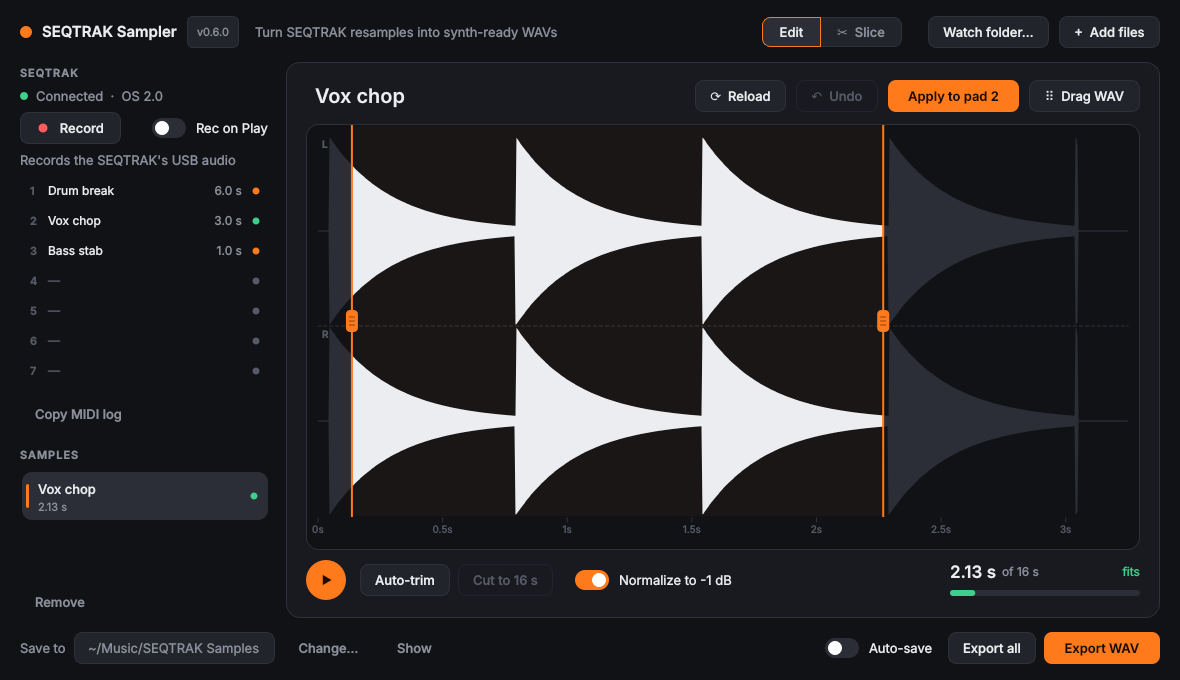
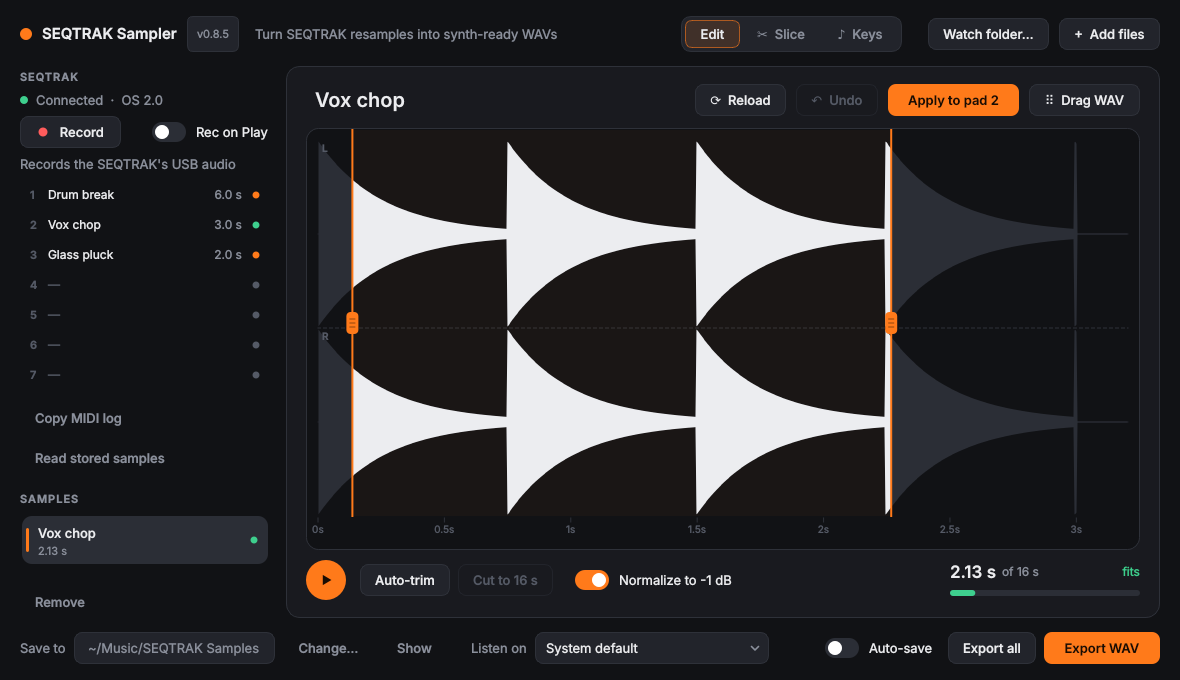
Update the website for Keys mode and v0.8
New Keys mode section (with a screenshot and a nav link), fresh
screenshots of the Edit and Slice screens showing the new mode switch
and the Listen on picker, v0.8 in the hero and download section, a
"Listen where you want" feature card in place of the command-line one
(the CLI is still under From source), and FAQ answers on hearing
previews, tuned pads, and Slice/Keys not using sample memory.

Claude-Session: https://claude.ai/code/session_01DojZnX5okCytkw6Y5bWfUg

diff --git a/docs/index.html b/docs/index.html
@@ -4,7 +4,7 @@
 <meta charset="utf-8">
 <meta name="viewport" content="width=device-width, initial-scale=1">
 <title>SEQTRAK Sampler</title>
-<meta name="description" content="A free companion app for the Yamaha SEQTRAK: record it over USB, trim sampler pads right on the device, slice one sample across pads, and export synth-ready stereo WAVs.">
+<meta name="description" content="A free companion app for the Yamaha SEQTRAK: record it over USB, trim sampler pads right on the device, slice one sample across pads or tune it across them as keys, and export synth-ready stereo WAVs.">
 <meta property="og:title" content="SEQTRAK Sampler">
 <meta property="og:description" content="Record, trim and slice SEQTRAK samples without a DAW round trip.">
 <meta property="og:image" content="screenshot.png">
@@ -116,6 +116,8 @@
 
   .showcase { display: grid; grid-template-columns: minmax(0, 5fr) minmax(0, 7fr); gap: 48px; align-items: center; }
   .showcase .shot { margin: 0; box-shadow: 0 20px 60px rgba(0, 0, 0, 0.5); }
+  .showcase.flip { grid-template-columns: minmax(0, 7fr) minmax(0, 5fr); }
+  .showcase.flip > .shot { order: -1; }
   .steps { list-style: none; margin: 0 0 20px; padding: 0; counter-reset: s; }
   .steps li { position: relative; padding: 6px 0 6px 36px; counter-increment: s; }
   .steps li::before { content: counter(s); position: absolute; left: 0; top: 8px; width: 24px; height: 24px; border-radius: 50%; display: grid; place-items: center; font-size: 12px; font-weight: 650; background: var(--accent); color: #1a0d03; }
@@ -127,7 +129,8 @@
   footer .wrap { display: flex; justify-content: space-between; gap: 24px; flex-wrap: wrap; }
 
   @media (max-width: 860px) {
-    .showcase { grid-template-columns: minmax(0, 1fr); gap: 32px; }
+    .showcase, .showcase.flip { grid-template-columns: minmax(0, 1fr); gap: 32px; }
+    .showcase.flip > .shot { order: 0; }
     .features { grid-template-columns: repeat(2, minmax(0, 1fr)); }
     .downloads { grid-template-columns: repeat(2, minmax(0, 1fr)); }
     .dl.source { grid-column: 1 / -1; }
@@ -136,7 +139,7 @@
     .wrap { padding: 0 16px; }
     nav .links a:not(.gh) { display: none; }
     .hero { padding-top: 56px; }
-    .compare, .features, .downloads, .showcase { grid-template-columns: minmax(0, 1fr); }
+    .compare, .features, .downloads, .showcase, .showcase.flip { grid-template-columns: minmax(0, 1fr); }
     section { padding: 64px 0; }
     .btn { width: 100%; justify-content: center; }
     .dl .btn { align-self: stretch; }
@@ -151,6 +154,7 @@
     <div class="links">
       <a href="#how">How it works</a>
       <a href="#slice">Slice mode</a>
+      <a href="#keys">Keys mode</a>
       <a href="#features">Features</a>
       <a href="#download">Download</a>
       <a href="#faq">FAQ</a>
@@ -161,9 +165,9 @@
 
 <header class="hero">
   <div class="wrap">
-    <span class="eyebrow">Free &amp; open source · macOS &amp; Windows · v0.6</span>
+    <span class="eyebrow">Free &amp; open source · macOS &amp; Windows · v0.8</span>
     <h1>Sampling on the SEQTRAK, <em>without the DAW</em></h1>
-    <p class="lede">Record the SEQTRAK over USB, trim its sampler pads right on the device, slice one sample across several pads in a click, and export clean stereo WAVs for its synth tracks.</p>
+    <p class="lede">Record the SEQTRAK over USB, trim its sampler pads right on the device, slice one sample across several pads or play it in a scale across all seven, and export clean stereo WAVs for its synth tracks.</p>
     <div class="cta">
       <a class="btn primary" href="https://github.com/rechandler/seqtrak_sampler/releases/latest/download/SEQTRAK-Sampler-macOS.zip">
         <svg viewBox="0 0 24 24" aria-hidden="true"><path d="M16.37 12.6c-.02-2.3 1.88-3.4 1.96-3.46-1.07-1.56-2.73-1.78-3.32-1.8-1.41-.14-2.76.83-3.47.83-.72 0-1.82-.81-2.99-.79-1.54.02-2.96.9-3.75 2.27-1.6 2.78-.41 6.89 1.15 9.14.76 1.1 1.67 2.34 2.86 2.3 1.15-.05 1.58-.74 2.97-.74 1.38 0 1.77.74 2.98.72 1.23-.02 2.01-1.12 2.76-2.23.87-1.28 1.23-2.52 1.25-2.58-.03-.01-2.38-.92-2.4-3.66zM14.1 5.86c.63-.77 1.06-1.83.94-2.89-.91.04-2.02.61-2.67 1.37-.58.67-1.1 1.76-.96 2.8 1.02.08 2.06-.52 2.69-1.28z"/></svg>
@@ -176,7 +180,7 @@
     </div>
     <p class="fineprint">Not affiliated with or endorsed by Yamaha Corporation.</p>
     <div class="shot">
-      <img src="screenshot.png" width="1180" height="680" alt="SEQTRAK Sampler connected to a SEQTRAK: the sampler pads in the sidebar, pad 2 open with trim handles, and Reload, Undo and Apply to pad 2 buttons">
+      <img src="screenshot.png" width="1180" height="680" alt="SEQTRAK Sampler connected to a SEQTRAK: the Edit, Slice and Keys switch, the sampler pads in the sidebar, pad 2 open with trim handles and Reload, Undo and Apply to pad 2 buttons, and a Listen on output picker in the footer">
     </div>
   </div>
 </header>
@@ -202,7 +206,7 @@
         <ol class="flow">
           <li>Resample on the SEQTRAK. Its pad shows up in the app on its own.</li>
           <li>Click the pad. The SEQTRAK plays it and it opens in the editor.</li>
-          <li>Drag the handles and click <strong>Apply to pad</strong>, or switch to <strong>Slice</strong> to spread it across pads</li>
+          <li>Drag the handles and click <strong>Apply to pad</strong>, or switch to <strong>Slice</strong> or <strong>Keys</strong> to spread it across pads</li>
           <li>Need it on a synth track? <strong>Export WAV</strong> or drag it into the SEQTRAK app</li>
         </ol>
       </div>
@@ -214,7 +218,7 @@
   <div class="wrap">
     <div class="showcase">
       <div>
-        <div class="kicker">Slice mode <span class="tag">New</span></div>
+        <div class="kicker">Slice mode</div>
         <h2>One sample, up to seven pads</h2>
         <p class="section-lede" style="margin-bottom: 24px">Cut a break into hits or a phrase into chops, and every piece lands on its own pad, trimmed and ready to play.</p>
         <ol class="steps">
@@ -226,6 +230,27 @@
       </div>
       <div class="shot">
         <img src="slice.png" width="1180" height="680" loading="lazy" alt="Slice mode: a drum break split into four colored segments, with a pad map showing pad 1 trimmed, pads 2 and 3 replacing Vox chop and Bass stab, and pad 4 empty">
+      </div>
+    </div>
+  </div>
+</section>
+
+<section id="keys">
+  <div class="wrap">
+    <div class="showcase flip">
+      <div>
+        <div class="kicker">Keys mode <span class="tag">New</span></div>
+        <h2>One sample, seven notes</h2>
+        <p class="section-lede" style="margin-bottom: 24px">Turn a pluck, a stab or a sung note into something you can play: every pad gets the same sample, each tuned to a note of a scale.</p>
+        <ol class="steps">
+          <li>Pick a source pad<span>The handles set the part of the sample every pad plays.</span></li>
+          <li>Choose the notes<span><strong>Project scale</strong> reads the scale and key the SEQTRAK's own synth keys use, so the pads match them. Or pick Major, minor, a mode or a pentatonic and a root.</span></li>
+          <li>Click Load to pads 1–7<span>Each pad gets the source's sound settings and its own tuning. Click a pad on screen first to hear it.</span></li>
+        </ol>
+        <p class="note">No audio is copied, so it uses no sample memory, and <strong>Undo</strong> puts all seven pads back, tuning included.</p>
+      </div>
+      <div class="shot">
+        <img src="keys.png" width="1180" height="680" loading="lazy" alt="Keys mode: a pluck on pad 3 as the source, Sample plays C3, Notes set to Project scale, and seven pad tiles showing C3, D3, D#3, F3, G3, G#3 and A#3 with how far each is tuned">
       </div>
     </div>
   </div>
@@ -278,9 +303,9 @@
         <p>44.1 kHz, 16-bit stereo, read losslessly from .Y3S files. Optional normalize to -1 dB and short fades so edges don't click.</p>
       </div>
       <div class="feature">
-        <div class="icon"><svg viewBox="0 0 24 24"><polyline points="4 17 10 11 4 5"/><path d="M12 19h8"/></svg></div>
-        <h3>Command line too</h3>
-        <p>Batch-convert .Y3S files with the bundled <code>y3s2wav</code> tool. No dependencies beyond Python.</p>
+        <div class="icon"><svg viewBox="0 0 24 24"><path d="M3 14v-2a9 9 0 0 1 18 0v2"/><rect x="3" y="14" width="4" height="6" rx="1.5"/><rect x="17" y="14" width="4" height="6" rx="1.5"/></svg></div>
+        <h3>Listen where you want</h3>
+        <p>Pick where Play and pad previews sound, like headphones plugged into the SEQTRAK, without touching your computer's sound settings.</p>
       </div>
     </div>
   </div>
@@ -290,7 +315,7 @@
   <div class="wrap">
     <div class="kicker">Download</div>
     <h2>Get SEQTRAK Sampler</h2>
-    <p class="section-lede">Free and open source, currently v0.6. The builds aren't code-signed yet, so your OS will ask once before opening them (see the FAQ).</p>
+    <p class="section-lede">Free and open source, currently v0.8. The builds aren't code-signed yet, so your OS will ask once before opening them (see the FAQ).</p>
     <div class="downloads">
       <div class="dl">
         <h3>macOS</h3>
@@ -330,11 +355,19 @@ y3s2wav *.Y3S -o wavs/ --normalize</pre>
     </details>
     <details>
       <summary>Does it change my SEQTRAK?</summary>
-      <p>Only when you ask it to. Apply to pad and Load to pads change pad start and end points, names, and which recording a pad plays. They never delete audio, and Undo puts pads back. Reading .Y3S files and exporting WAVs never touches the device or the SEQTRAK app's data.</p>
+      <p>Only when you ask it to. Apply to pad and Load to pads change pads' start and end points, names, sound settings and tuning, and which recording a pad plays. They never delete audio, and Undo puts pads back. Reading .Y3S files and exporting WAVs never touches the device or the SEQTRAK app's data.</p>
     </details>
     <details>
-      <summary>Does Slice mode use up sample memory?</summary>
-      <p>No. Every sliced pad plays the source pad's recording, trimmed to its own segment, so no new audio is recorded. Pads that held other samples keep those recordings on the SEQTRAK, which is how Undo brings them back.</p>
+      <summary>Do Slice and Keys modes use up sample memory?</summary>
+      <p>No. Every pad they load plays the source pad's recording, trimmed (Slice) or tuned (Keys), so no new audio is recorded. Pads that held other samples keep those recordings on the SEQTRAK, which is how Undo brings them back.</p>
+    </details>
+    <details>
+      <summary>Why can't I hear Play or the pad previews?</summary>
+      <p>The sound is going to a different output from the one you're listening on. On Windows, plugging in the SEQTRAK often changes the computer's default output. Use <strong>Listen on</strong>, at the bottom of the window, to pick your speakers, your headphones, or the SEQTRAK itself if your headphones are plugged into it. Each preview says where it played.</p>
+    </details>
+    <details>
+      <summary>My pad is tuned on the SEQTRAK. Does that matter?</summary>
+      <p>No. When the app opens a pad it records it untuned, so the whole sample comes in and trims line up exactly, then it puts your tuning straight back. In the app you hear the sample at its original pitch.</p>
     </details>
     <details>
       <summary>Can it put a sample on a synth track?</summary>
